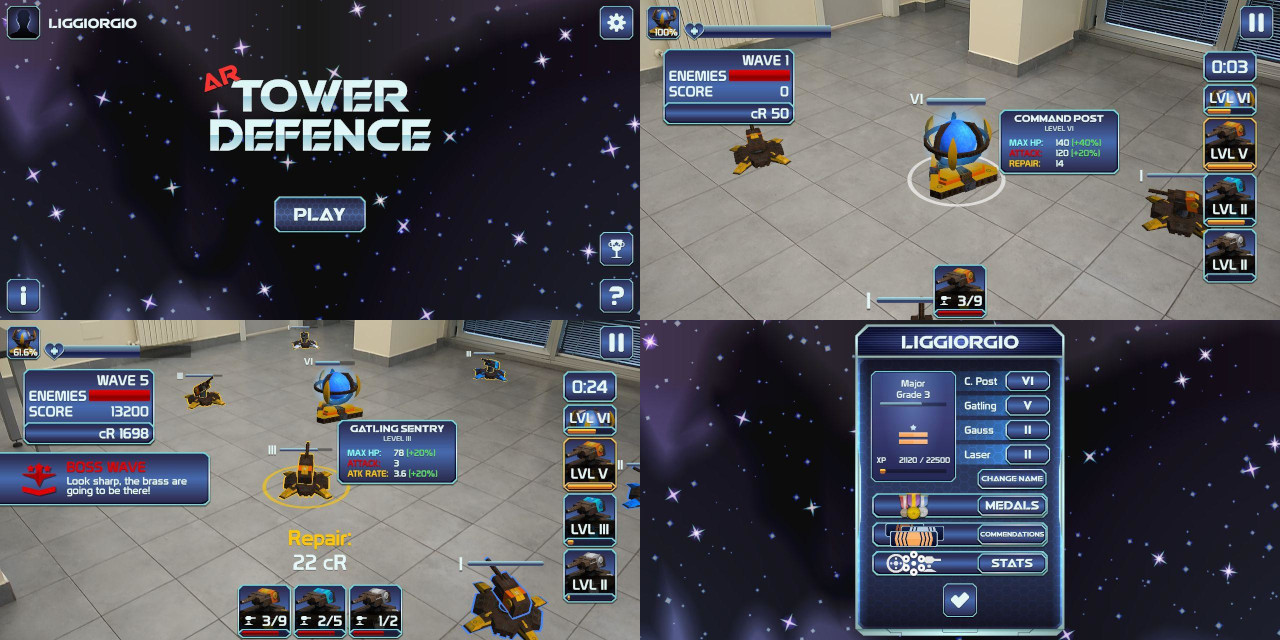
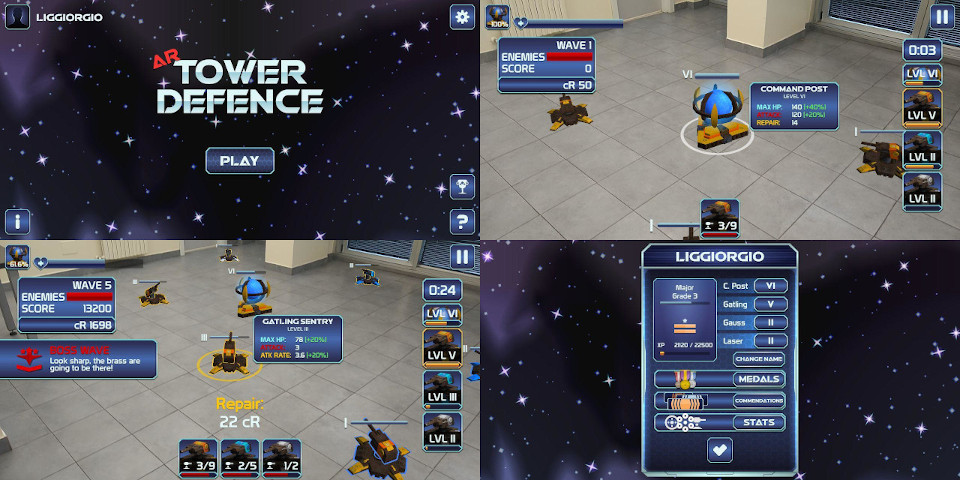
Update README screenshot file

diff --git a/README.md b/README.md
@@ -9,7 +9,7 @@ Software adopted:
 - GIMP 2.10 (sprite/texture editing)
 - Audacity 2.3.2 (audio clip editing)
 
-![Screenshot](https://raw.githubusercontent.com/liggiorgio/ar-tower-defence/master/Screenshots/Screenshot.jpg =640x320)
+![Screenshot](https://raw.githubusercontent.com/liggiorgio/ar-tower-defence/master/Screenshots/Screenshot.jpg)
 
 ## Gameplay overview
 Players start by building a *Command Post*, which must defend from waves of incoming enemies, and then deploy turrets that attack enemies at sight. There's a 30-second intermission before each next wave, during which players can deploy more turrets and repair/upgrade existing ones, using currency earned while playing.
